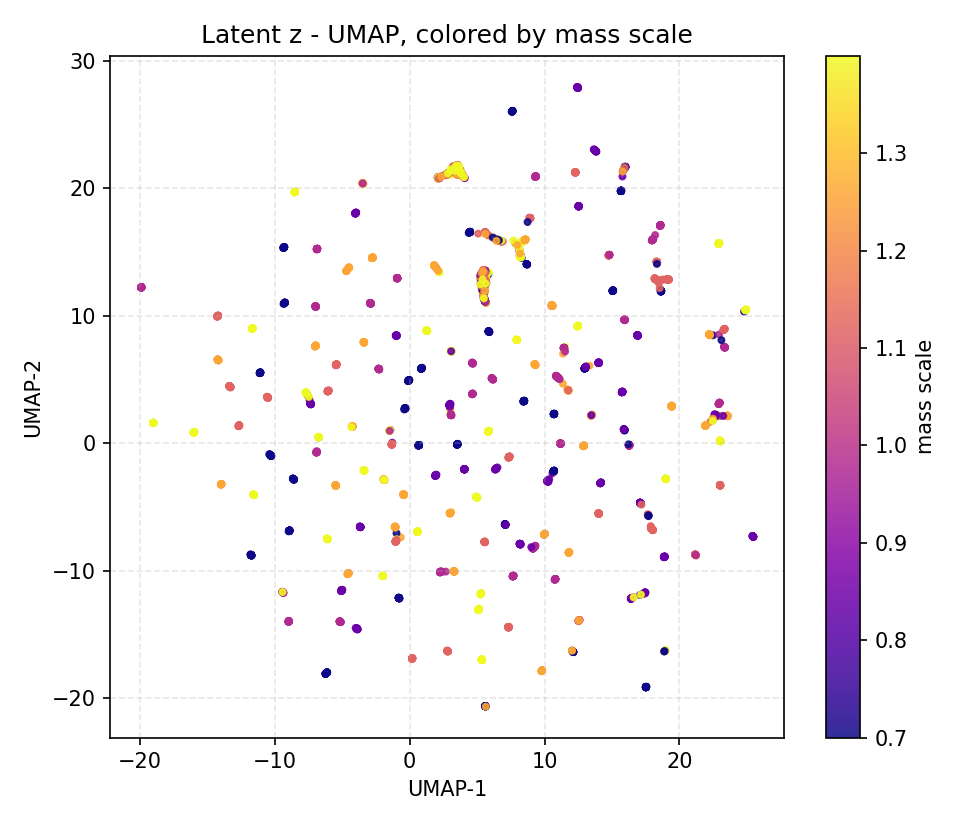
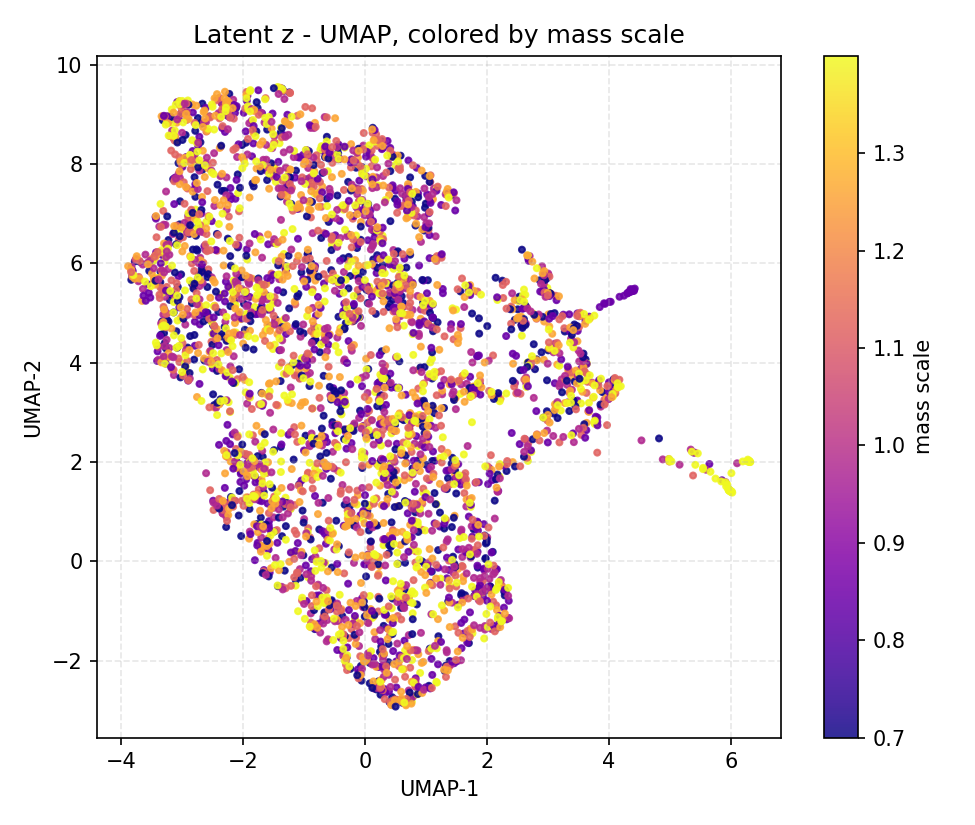
More training

diff --git a/training/train_student.py b/training/train_student.py
@@ -269,7 +269,7 @@ def distill(cfg, teacher, obs_rms, encoder, student, env, dyn_config, device="cp
     inner_epochs = d_cfg["inner_epochs"]
 
     privileged_dim = dyn_config.privileged_dim
-    priv_dim_w = d_cfg.get("priv_dim_weights", 1.0 * privileged_dim)
+    priv_dim_w = d_cfg.get("priv_dim_weights", [1.0] * privileged_dim)
     priv_dim_w_t = torch.as_tensor(priv_dim_w, dtype=torch.float32, device=device)
 
     priv_head = PrivilegedHead(encoder.latent_dim, privileged_dim).to(device)